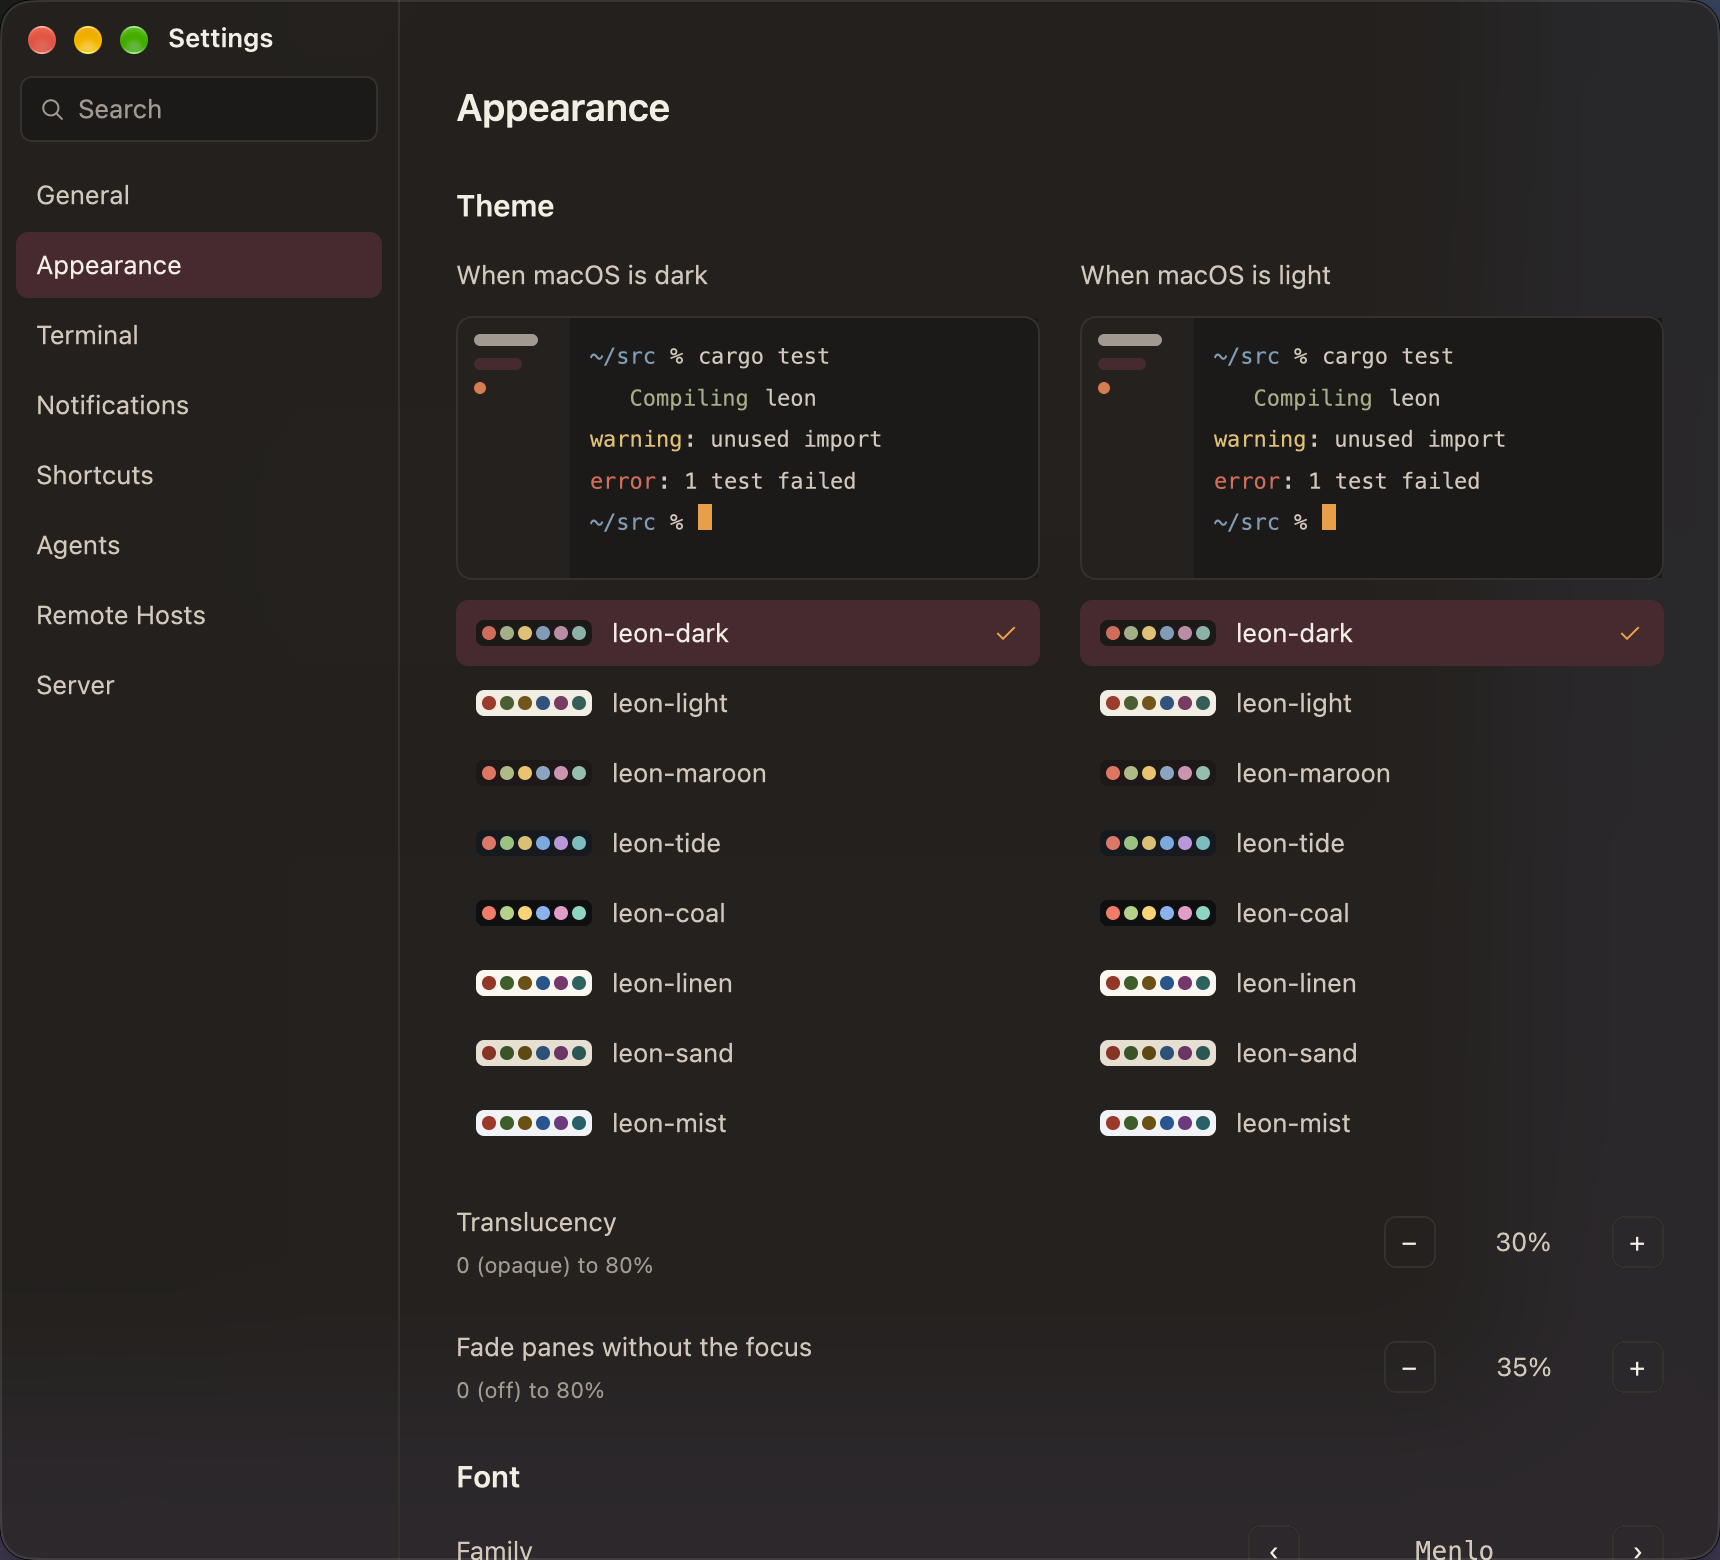
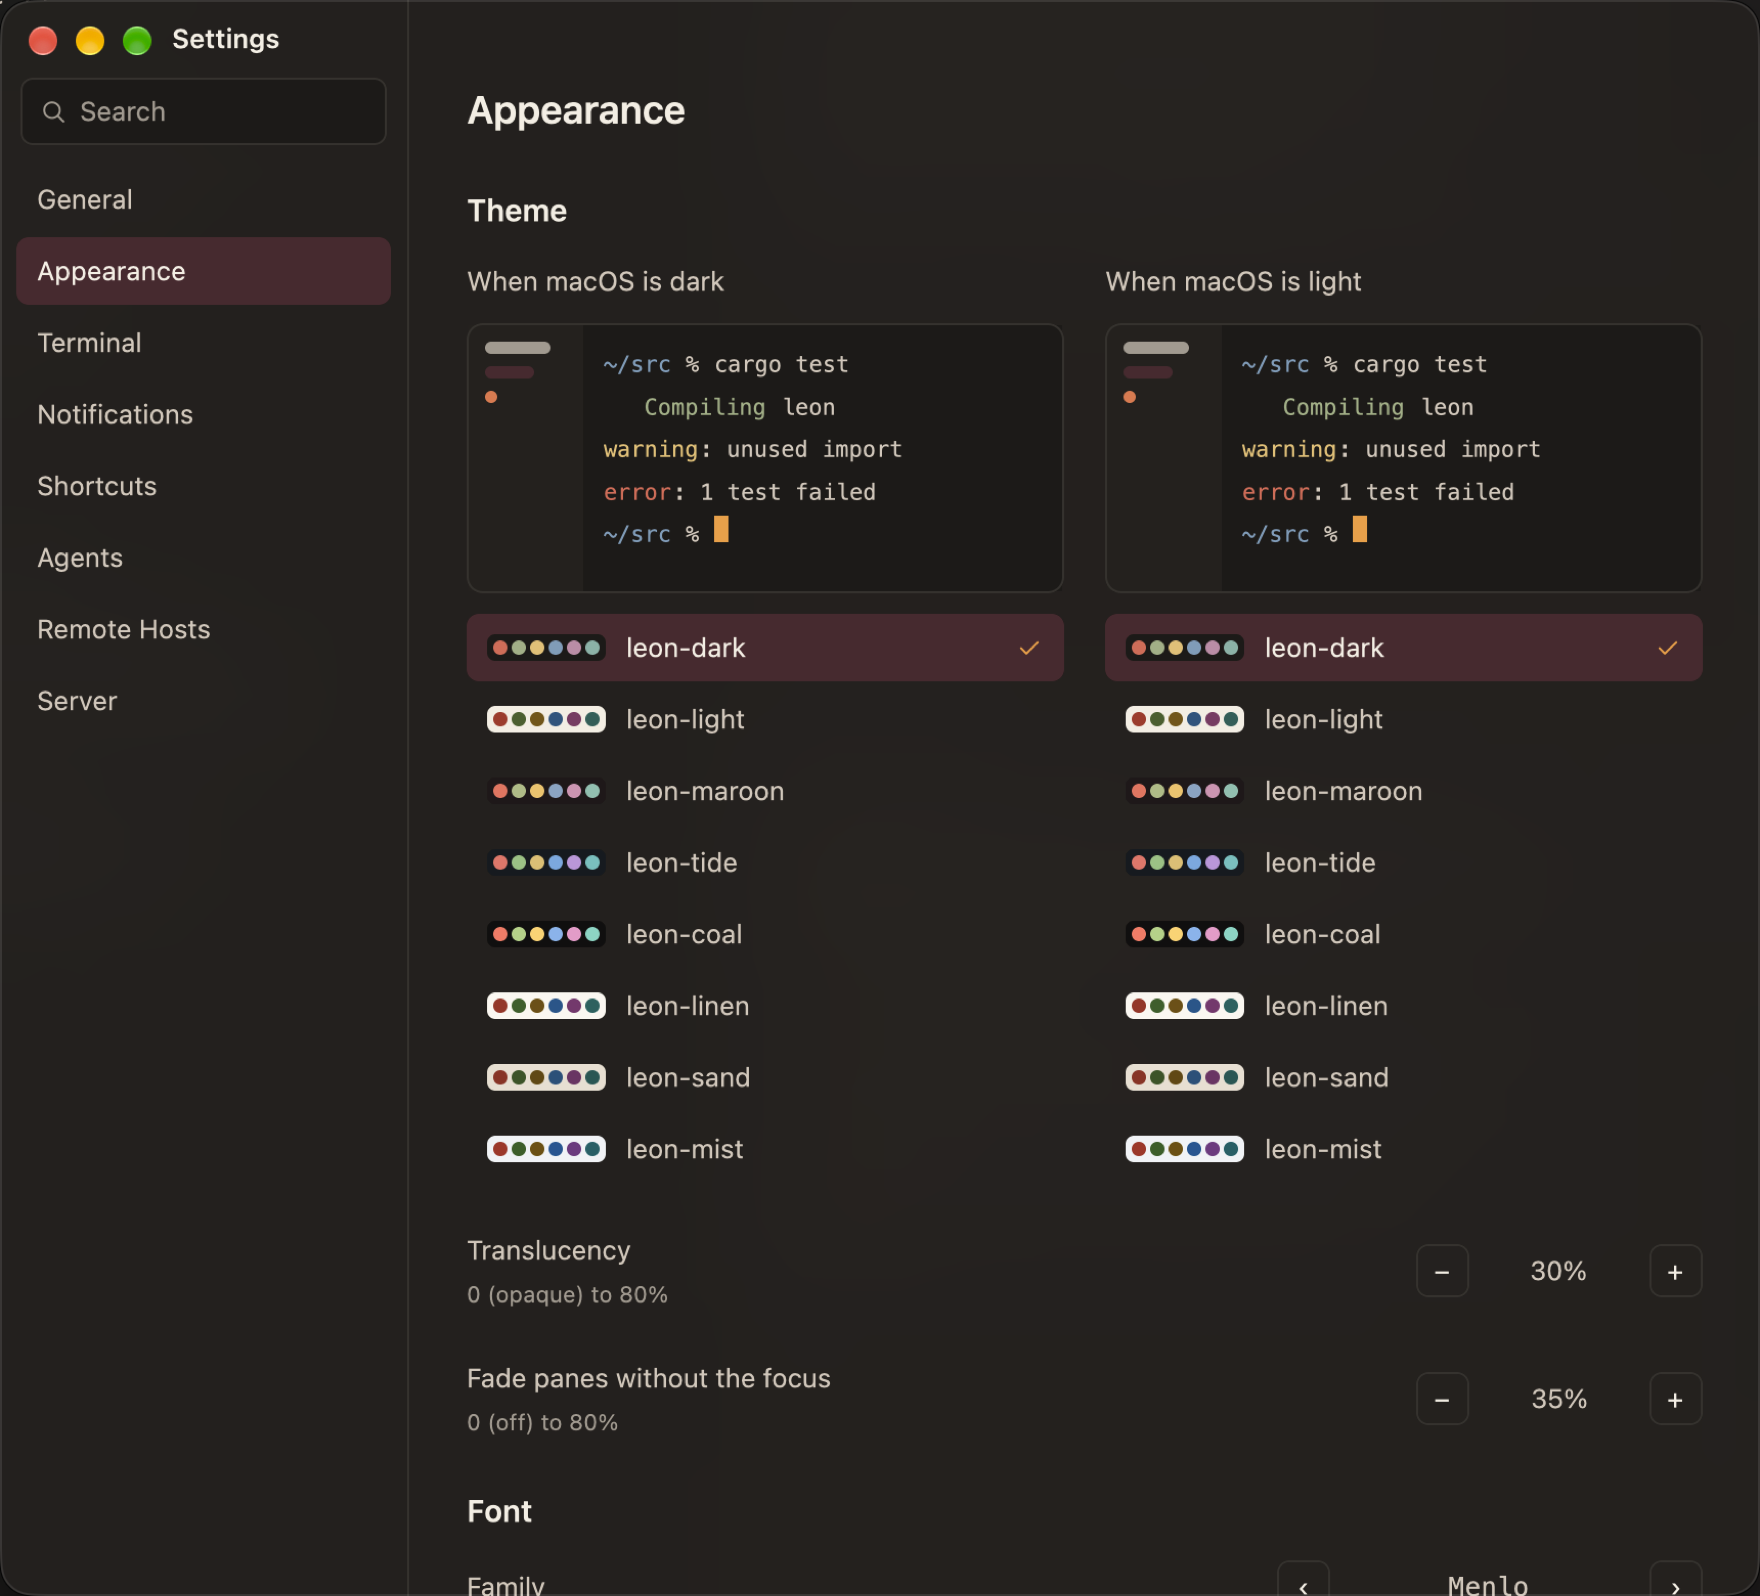
docs: both GIFs and every still retaken on today's dev, in a window 80% of the screen; the git popup still beside its recipe

diff --git a/README.md b/README.md
@@ -9,7 +9,7 @@ or through your coding agent, which can open a pane beside itself, run your test
 the result. Programs can report whether they are working, blocked or done, so you can see which
 one needs you. It runs on macOS and Linux (the app is macOS only for now) and is written in Rust.
 
-![The leon app: splitting a tab, switching with ⌘K, a scratch drawer, and an agent working, then blocked](docs/images/demo-app.gif)
+![The leon app: splitting a tab, switching tabs, splitting from the command palette, a git popup, switching sessions with ⌘K, and an agent working, then blocked](docs/images/demo-app.gif)
 
 ![The leon command: a new session, a run that waits, typing into Python and waiting for its answer, then leon attach and a split](docs/images/demo-cli.gif)
 

diff --git a/docs/lua/keys.md b/docs/lua/keys.md
@@ -242,6 +242,8 @@ leon.bind("ctrl+alt+g", "git_popup")
 <!-- /popup-git -->
 
 The same from a shell: `leon toggle git --create --float -- sh -c 'git log --graph --oneline | less -Rc'`.
+
+![The git popup over a tab of an agent, its tests and a shell, showing the repository's history](../images/app-popup.png)
 `less` needs `-c` to show a log shorter than the popup from the top: without it, it writes the log
 at the bottom of the screen and leaves the rest blank.
 
